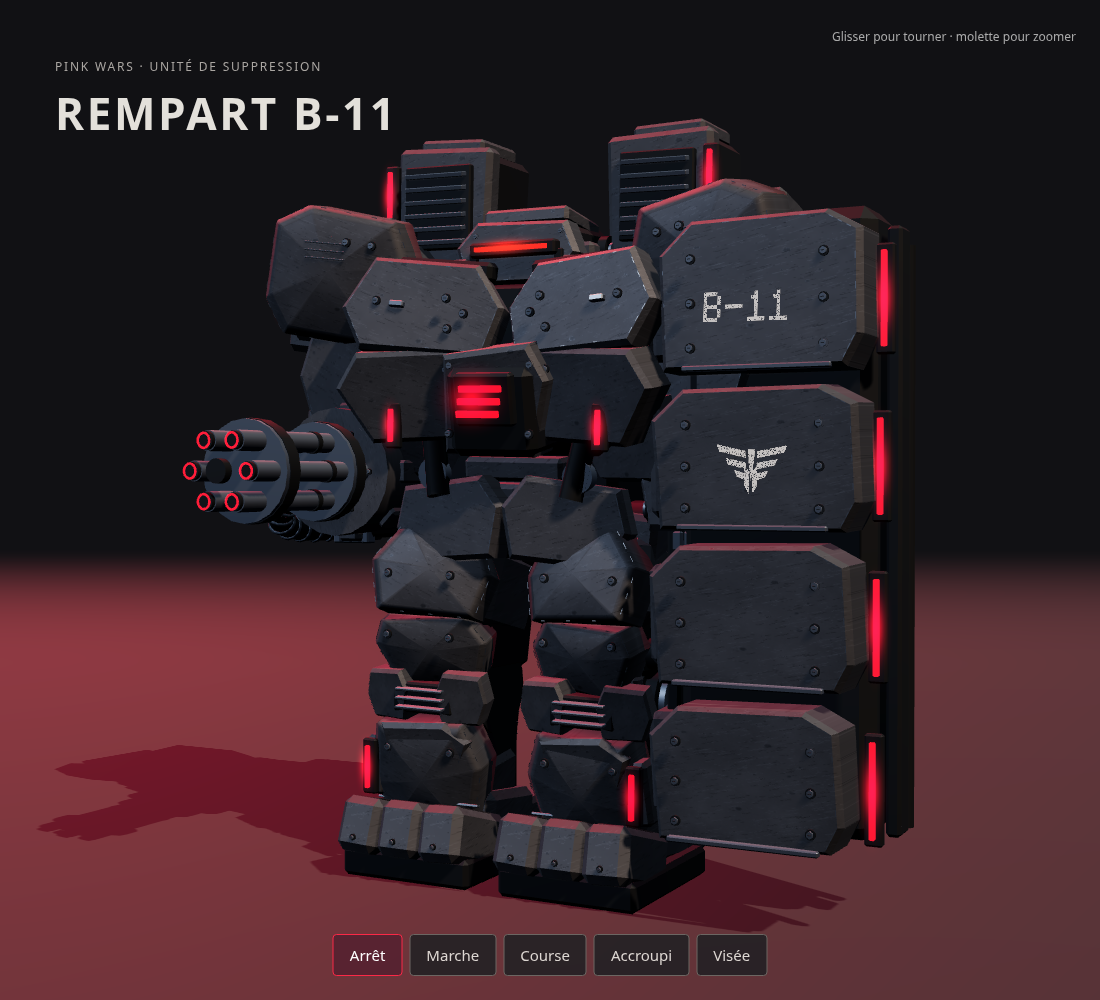
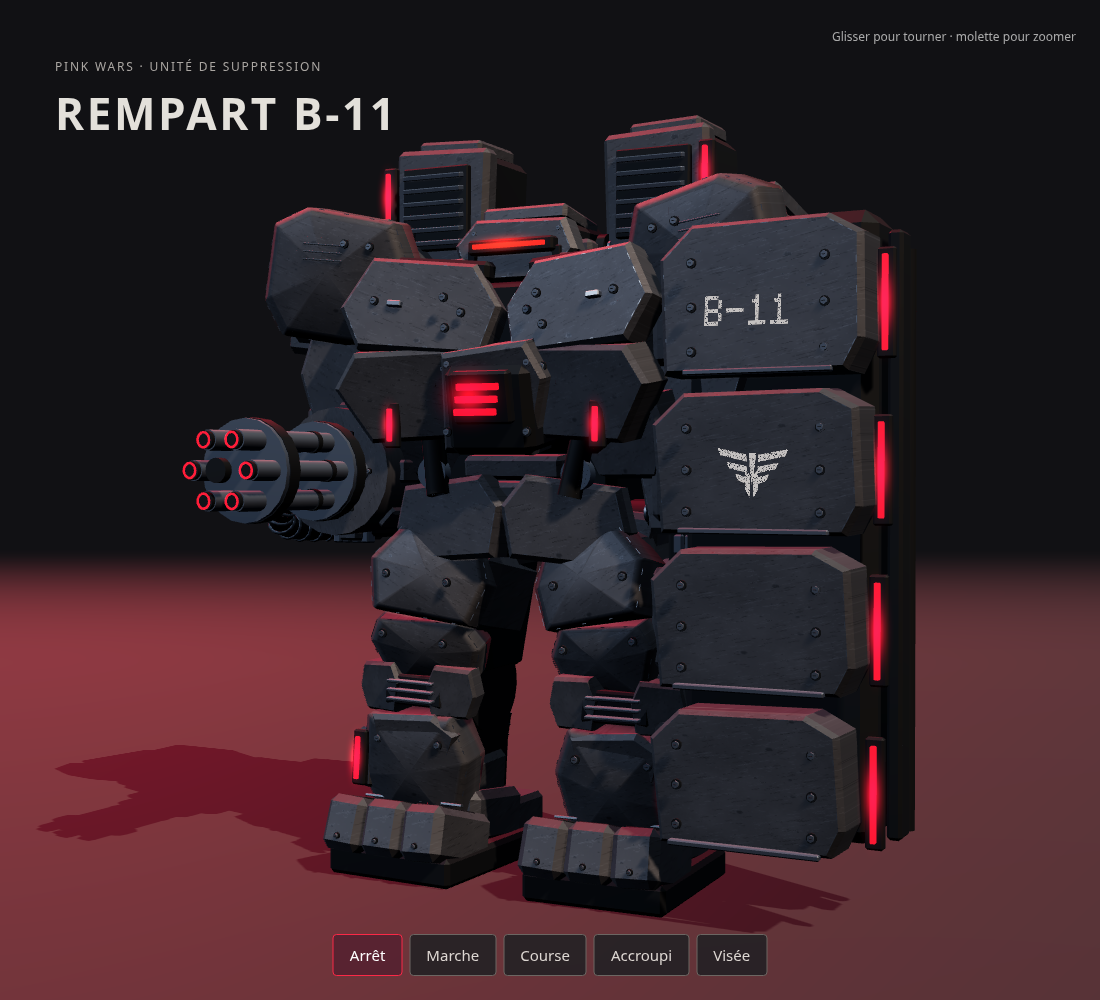
Rattache le canon au torse et sépare les appuis du Rempart

diff --git a/dist/enemy-rempart.js b/dist/enemy-rempart.js
@@ -5,7 +5,8 @@ import {enemyScale} from './enemy-combat.js';
 import {enemyAlertState,ENEMY_OPTICS} from './enemy-alert.js';
 import {rempartSurfaces} from './rempart-surfaces.js';
 import {rempartGeometry} from './enemy-rempart-model.js';
-import {REMPART} from './rempart-profile.js';
+import {REMPART,setRempartWeaponMotion,clearRempartWeaponMotion} from './rempart-profile.js';
+import {createRempartLegRetarget} from './rempart-locomotion.js';
 const geometryCache=new Map(),materialCache=new WeakMap();const supportCache=new Map();
 function footSupportPoints(detail){
  if(supportCache.has(detail))return supportCache.get(detail);
@@ -21,15 +22,21 @@ function footSupportPoints(detail){
 export function createRempart({elite=false,environment=null,detail='high'}={}){
  const asset=reco1Assets(),states={motion:'idle',aim:false,mode:'patrol'},root=new T.Group(),visual=new T.Group();
  const armRest=new Map(),aimQ=new T.Quaternion(),parentQ=new T.Quaternion(),point=new T.Vector3(),shoulderPoint=new T.Vector3(),direction=new T.Vector3(),delta=new T.Quaternion();
- // Native leg/body animation is retained. Heavy arms are braced with world-space
- // shoulder-to-elbow solves, so a walking shoulder never pulls away from its cannon.
+ let bodyBind=null,lastEnemy=null;const bodyMotion=new T.Matrix4(),weaponOffset={x:0,y:0,z:0};
+ // Elbows follow a point on the moving thorax; aiming stabilises orientation,
+ // rather than pinning the weapon in the character's stationary root frame.
  const rempartRig={proportions:REMPART.proportions,afterPose:({actor,bones,pose:p})=>{
+  const thorax=bones.get('mixamorigSpine2');
+  if(!bodyBind)bodyBind=thorax.matrixWorld.clone().invert();
+  bodyMotion.multiplyMatrices(thorax.matrixWorld,bodyBind);
   for(const side of ['Right','Left']){
    const upper=bones.get('mixamorig'+side+'Arm'),fore=bones.get('mixamorig'+side+'ForeArm');
    upper.getWorldPosition(shoulderPoint);
    if(!armRest.has(side))armRest.set(side,{upper:upper.getWorldQuaternion(new T.Quaternion()),fore:fore.getWorldQuaternion(new T.Quaternion()),direction:fore.getWorldPosition(new T.Vector3()).sub(shoulderPoint).normalize()});
    const rest=armRest.get(side),right=side==='Right';
-   point.set(right?-.52:.52,1.20-REMPART.crouchDrop*(p.coverCrouch||0)+(right?0:(p.guard||0)*.06),.025);
+   point.set(right?-.52:.52,1.20+(right?0:(p.guard||0)*.06),.025).applyMatrix4(bodyMotion);
+   if(!right)point.y=Math.max(1.02,point.y); // Keep the long shield clear of the floor when ducking.
+   if(right){weaponOffset.x=-(point.x+.52);weaponOffset.y=point.y-1.20+REMPART.crouchDrop*(p.coverCrouch||0);weaponOffset.z=-(point.z-.025);}
    direction.copy(point).sub(shoulderPoint).normalize();delta.setFromUnitVectors(rest.direction,direction);
    aimQ.copy(delta).multiply(rest.upper);upper.quaternion.copy(upper.parent.getWorldQuaternion(parentQ).invert().multiply(aimQ));actor.updateMatrixWorld(true);
    fore.position.copy(fore.parent.worldToLocal(point));
@@ -58,6 +65,7 @@ export function createRempart({elite=false,environment=null,detail='high'}={}){
  }
  // These are the actual 41 native bones, not an independent animation approximation.
  const skeleton=new T.Skeleton(nativeBones,nativeBones.map(b=>b.matrixWorld.clone().invert()));
+ rempartRig.retargetLegs=createRempartLegRetarget(pose);
  // Contact points come from the actual sole hull, not empty bounding-box corners.
  const soleSamples=[];
  for(const side of ['Right','Left']){
@@ -76,9 +84,12 @@ export function createRempart({elite=false,environment=null,detail='high'}={}){
   const elapsed=previous===null?0:Math.max(0,time-previous),dt=Math.min(.1,elapsed),x=enemy.x??root.position.x,z=enemy.z??root.position.z,dist=Math.hypot(x-px,z-pz);
   const measured=moving&&elapsed>0&&dist<2&&(enemy.stunnedUntil||0)<=simulationTime?Math.min(5,dist/elapsed):0;speed+=(measured-speed)*(1-Math.exp(-dt*18));if(measured<.01&&speed<.03)speed=0;previous=time;px=x;pz=z;
   const alert=enemyAlertState(enemy,simulationTime);states.motion=speed>2.9?'run':speed>.06?'walk':'idle';states.aim=alert!=='idle';states.mode=alert==='engaged'?'attack':alert==='alert'?'search':'patrol';
-  pose.setPose({speed,guard:(enemy.combatPose||enemy.tactics?.state)==='guard'?1:0,coverCrouch:enemy.coverCrouch||0,aimPitch:T.MathUtils.clamp(enemy.aimPitch||0,REMPART.minPitch,REMPART.maxPitch),aimYaw:enemy.aimYaw||0,hitPulse:Math.max(0,1-(simulationTime-(enemy.hitAt??-99))/.22)});pose.update(dt,time,0);materials.eye.color.setHex(ENEMY_OPTICS[alert]);root.userData.alertState=alert;root.userData.motionSpeed=speed;root.userData.nativeMotion=states.motion;
+  pose.setPose({speed,guard:(enemy.combatPose||enemy.tactics?.state)==='guard'?1:0,coverCrouch:enemy.coverCrouch||0,aimPitch:T.MathUtils.clamp(enemy.aimPitch||0,REMPART.minPitch,REMPART.maxPitch),aimYaw:enemy.aimYaw||0,hitPulse:Math.max(0,1-(simulationTime-(enemy.hitAt??-99))/.22)});pose.update(dt,time,0);
+  if(lastEnemy&&lastEnemy!==enemy)clearRempartWeaponMotion(lastEnemy,weaponOffset);
+  lastEnemy=enemy;setRempartWeaponMotion(enemy,weaponOffset);
+  materials.eye.color.setHex(ENEMY_OPTICS[alert]);root.userData.alertState=alert;root.userData.motionSpeed=speed;root.userData.nativeMotion=states.motion;
  };
  root.userData.animate(0,0,false,{},0);
  root.userData.modelStats={nativeBones:41,batches:geometryCache.get(detail).length,triangles:geometryCache.get(detail).reduce((n,p)=>n+p.geometry.attributes.position.count/3,0)};
- let disposed=false;const dispose=()=>{if(disposed)return;disposed=true;pose.dispose();skeleton.dispose();materials.eye.dispose();};root.addEventListener('removed',dispose);root.userData.dispose=dispose;return root;
+ let disposed=false;const dispose=()=>{if(disposed)return;disposed=true;if(lastEnemy)clearRempartWeaponMotion(lastEnemy,weaponOffset);pose.dispose();skeleton.dispose();materials.eye.dispose();};root.addEventListener('removed',dispose);root.userData.dispose=dispose;return root;
 }

diff --git a/dist/rempart-locomotion.js b/dist/rempart-locomotion.js
@@ -1,0 +1,29 @@
+import * as T from './vendor/three.webgpu.min.js';
+
+// Keep the native clips' advance and foot lift, with room for the heavy boots.
+// The solver targets the boot centre rather than the narrow human ankle.
+export function createRempartLegRetarget(pose){
+ const legs=[['Right',-1],['Left',1]].map(([name,side])=>{
+  const hip=pose.bones.get('mixamorig'+name+'UpLeg'),knee=pose.bones.get('mixamorig'+name+'Leg'),foot=pose.bones.get('mixamorig'+name+'Foot');
+  const reference=foot.getWorldQuaternion(new T.Quaternion());
+  return {hip,knee,foot,side,reference,inverse:reference.clone().invert(),sole:new T.Vector3(side*.245,0,.13).applyMatrix4(foot.matrixWorld.clone().invert())};
+ });
+ const target=new T.Vector3(),pole=new T.Vector3(),offset=new T.Vector3(),scale=new T.Vector3();
+ const current=new T.Quaternion(),delta=new T.Quaternion(),desired=new T.Quaternion(),parent=new T.Quaternion(),angles=new T.Euler(0,0,0,'YXZ');
+ return ({actor,ik})=>{
+  for(const leg of legs){
+   leg.foot.getWorldPosition(target);leg.foot.getWorldQuaternion(current);leg.foot.getWorldScale(scale);
+   delta.copy(current).multiply(leg.inverse);angles.setFromQuaternion(delta,'YXZ');
+   // A heavy sole rolls slightly at push-off; it does not follow the human
+   // clip's inward yaw or large toe rotation into the opposite boot.
+   angles.set(T.MathUtils.clamp(angles.x,-.10,.14),leg.side*.04,0,'YXZ');
+   desired.setFromEuler(angles).multiply(leg.reference);
+   offset.copy(leg.sole).multiply(scale).applyQuaternion(desired);
+   target.x=leg.side*.30-offset.x;
+   leg.hip.getWorldPosition(pole);pole.x+=leg.side*.20;pole.y-=.02;pole.z+=.5;
+   ik(leg.hip,leg.knee,leg.foot,target,pole,.999);
+   leg.foot.quaternion.copy(leg.foot.parent.getWorldQuaternion(parent).invert().multiply(desired));
+   actor.updateMatrixWorld(true);
+  }
+ };
+}

diff --git a/dist/enemy-combat.js b/dist/enemy-combat.js
@@ -1,5 +1,5 @@
 import {RECO1,isReco1,reco1MuzzleLocal} from './reco1-profile.js';
-import {REMPART,rempartMuzzleLocal} from './rempart-profile.js';
+import {REMPART,rempartMuzzleLocal,getRempartWeaponMotion} from './rempart-profile.js';
 import {carriesFieldRifle,fieldRifleMuzzle,listenerToolMuzzle} from './enemy-weapon-layout.js';
 export const ROBOT_HEAD_TOP=2.014,ROBOT_SENSOR_Y=1.88,ROBOT_CROUCH_DROP=.52,MAX_COVER_CROUCH=1.4;
 // Finish a short cover manoeuvre using the last perceived contact. This never
@@ -24,7 +24,7 @@ export function enemyVolley(wave, form='stalker') {
 }
 export function rangedMuzzle(enemy) {
   const crawler=enemy.form==='scuttler',scale=enemyScale(enemy.form,enemy.elite)*(enemy.roomScale||1);
-  const rifle=isReco1(enemy.form)?reco1MuzzleLocal(enemy.aimPitch,enemy.aimYaw,enemy.coverCrouch):enemy.form==='bulwark'?rempartMuzzleLocal(enemy.aimPitch,enemy.aimYaw,enemy.coverCrouch):enemy.form==='listener'?listenerToolMuzzle(enemy.aimPitch||0):carriesFieldRifle(enemy.form)?fieldRifleMuzzle(enemy.aimPitch||0):null;
+  const rifle=isReco1(enemy.form)?reco1MuzzleLocal(enemy.aimPitch,enemy.aimYaw,enemy.coverCrouch):enemy.form==='bulwark'?rempartMuzzleLocal(enemy.aimPitch,enemy.aimYaw,enemy.coverCrouch,getRempartWeaponMotion(enemy)):enemy.form==='listener'?listenerToolMuzzle(enemy.aimPitch||0):carriesFieldRifle(enemy.form)?fieldRifleMuzzle(enemy.aimPitch||0):null;
   const x=rifle?.x??(crawler?0:.37),z=rifle?.z??(crawler?-.28:-.345),y=(rifle?.y??(crawler?1.04:1.69))-(isReco1(enemy.form)||enemy.form==='bulwark'?0:.52*(enemy.coverCrouch||0)),angle=enemy.yaw||0;
   return {x:enemy.x+(x*Math.cos(angle)+z*Math.sin(angle))*scale,
     y:(enemy.elevation||0)+y*scale,z:enemy.z+(-x*Math.sin(angle)+z*Math.cos(angle))*scale};

diff --git a/dist/rempart-profile.js b/dist/rempart-profile.js
@@ -2,7 +2,13 @@
 export const REMPART=Object.freeze({sensorY:1.738,headTop:1.84,coverTop:2.10,crouchDrop:.52,
  proportions:Object.freeze({LeftArm:2.6,RightArm:2.6,LeftShoulder:1.45,RightShoulder:1.45,LeftUpLeg:2.15,RightUpLeg:2.15,Neck:.8}),
  cannonPivot:Object.freeze([-.52,1.20,.025]),cannonMuzzle:Object.freeze([-.52,1.12,.82]),minPitch:-1.05,maxPitch:1.1});
-export function rempartMuzzleLocal(pitch=0,yaw=0,crouch=0){
+// The visual driver publishes the torso's weapon offset in game-local coordinates.
+// Keeping it outside the enemy record avoids serialising rendering state in saves.
+const weaponMotion=new WeakMap();
+export function setRempartWeaponMotion(enemy,offset){weaponMotion.set(enemy,offset);}
+export function getRempartWeaponMotion(enemy){return weaponMotion.get(enemy);}
+export function clearRempartWeaponMotion(enemy,offset){if(weaponMotion.get(enemy)===offset)weaponMotion.delete(enemy);}
+export function rempartMuzzleLocal(pitch=0,yaw=0,crouch=0,motion=null){
  const p=Math.max(REMPART.minPitch,Math.min(REMPART.maxPitch,pitch||0)),r=.795*Math.cos(p)+.08*Math.sin(p);
- return {x:.52-Math.sin(yaw||0)*r,y:1.20-.08*Math.cos(p)+.795*Math.sin(p)-REMPART.crouchDrop*(crouch||0),z:-.025-Math.cos(yaw||0)*r};
+ return {x:.52-Math.sin(yaw||0)*r+(motion?.x||0),y:1.20-.08*Math.cos(p)+.795*Math.sin(p)-REMPART.crouchDrop*(crouch||0)+(motion?.y||0),z:-.025-Math.cos(yaw||0)*r+(motion?.z||0)};
 }

diff --git a/dist/reco1-pose.js b/dist/reco1-pose.js
@@ -58,6 +58,7 @@ export function createReco1Pose(asset,states,rig={}){
    bone('Spine').quaternion.multiply(new T.Quaternion().setFromEuler(new T.Euler(.22*crouchBlend,0,0)));bone('Spine1').quaternion.multiply(new T.Quaternion().setFromEuler(new T.Euler(.12*crouchBlend,0,0)));bone('Neck').quaternion.multiply(new T.Quaternion().setFromEuler(new T.Euler(-.20*crouchBlend,0,0)));actor.updateMatrixWorld(true);
    ['Right','Left'].forEach((s,i)=>{const pole=pos(bone(s+'UpLeg')).add(new T.Vector3(i===0?-.10:.10,-.02,.34));ik(bone(s+'UpLeg'),bone(s+'Leg'),bone(s+'Foot'),targets[i],pole);const foot=bone(s+'Foot');foot.quaternion.copy(quat(foot.parent).invert().multiply(feetQ[i]));actor.updateMatrixWorld(true);});
   }
+  if(rig.retargetLegs){rig.retargetLegs({actor,bones,pose,states,ik});actor.updateMatrixWorld(true);}
   if(states.motion!=='run'){actor.position.y+=ground-(rig.soleY?rig.soleY():soleY());actor.updateMatrixWorld(true);}
   if(states.mode==='search')bone('Head').quaternion.multiply(new T.Quaternion().setFromEuler(new T.Euler(0,Math.sin(t*.65)*.22,0)));
   actor.updateMatrixWorld(true);drive(torsoBind);drive(headBind);

diff --git a/docs/REMPART_B11.md b/docs/REMPART_B11.md
@@ -4,7 +4,9 @@ Le modèle repose sur le squelette natif RLH à 41 os déjà utilisé par RECO1 
 
 Les volumes représentent une tête encastrée, deux tours de refroidissement, une cuirasse composée de carters inclinés et superposés, des articulations de genoux ajourées, des vérins, un canon multitube avec alimentation annelée et un bouclier à quatre sections inégales. Les pieds élargis possèdent des points d’appui calculés sur leur géométrie réelle, au-dessus des clips natifs. Les matières graphite, la peinture écaillée, les marquages usés et les halos des signaux sont générés une fois et partagés. L’optique reste propre à chaque ennemi et réagit à sa perception.
 
-L’armement stabilise les bras au-dessus de la locomotion native. La bouche du canon et l’origine simulée des projectiles partagent un repère, y compris en visée et accroupi. Le capteur, les zones touchables et les hauteurs utilisées pour les couverts sont recalés. Les valeurs de santé et de dégâts restent celles du Rempart.
+Le canon et le bouclier suivent des points d’attache sur le thorax animé ; leur position n’est plus figée dans le repère racine. La visée stabilise l’orientation du canon. La bouche visible et l’origine des projectiles partagent la translation de l’arme, y compris en marche, en visée et accroupi. Cette correction est conservée dans une WeakMap par ennemi, libérée au retrait du modèle ; sans modèle animé, le repère de repos reste disponible pour la simulation.
+
+La locomotion conserve l’avancée, le lever des pieds et la cadence des clips de RECO1. Une résolution des jambes guide les bottes sur deux pistes séparées, avec des genoux dirigés vers l’avant et une rotation limitée des semelles. Le contact au sol est toujours calculé sur la géométrie réelle des pieds. Le capteur, les zones touchables et les hauteurs de couvert restent recalés au châssis ; les valeurs de santé et de dégâts restent celles du Rempart.
 
 [Rendu](../apercus/rempart-reference/rempart.png) · [Marche animée](../apercus/rempart-reference/marche.gif)
 
@@ -14,6 +16,6 @@ Aperçu interactif : `rempart-preview.html` (Arrêt, Marche, Course, Accroupi et
 - Qualité basse : 7 156 triangles, six lots de rendu.
 - Aucun éclairage dynamique ajouté par instance.
 - Revue visuelle en Chromium : face, trois quarts et animation de marche.
-- 42 tests ciblés réussis : squelette natif, proportions, marche, concordance canon/projectile, perception, géométrie, couverts et non-régression RECO1.
+- 45 tests ciblés réussis : squelette natif, proportions, appuis sans croisement en marche et en course, suivi du torse par le canon, concordance canon/projectile, perception, géométrie, couverts et non-régression RECO1.
 
 Le résultat est une modélisation procédurale originale inspirée de l’illustration fournie, avec un détail adapté au jeu. Il ne reproduit pas toute la complexité de son rendu photographique.
